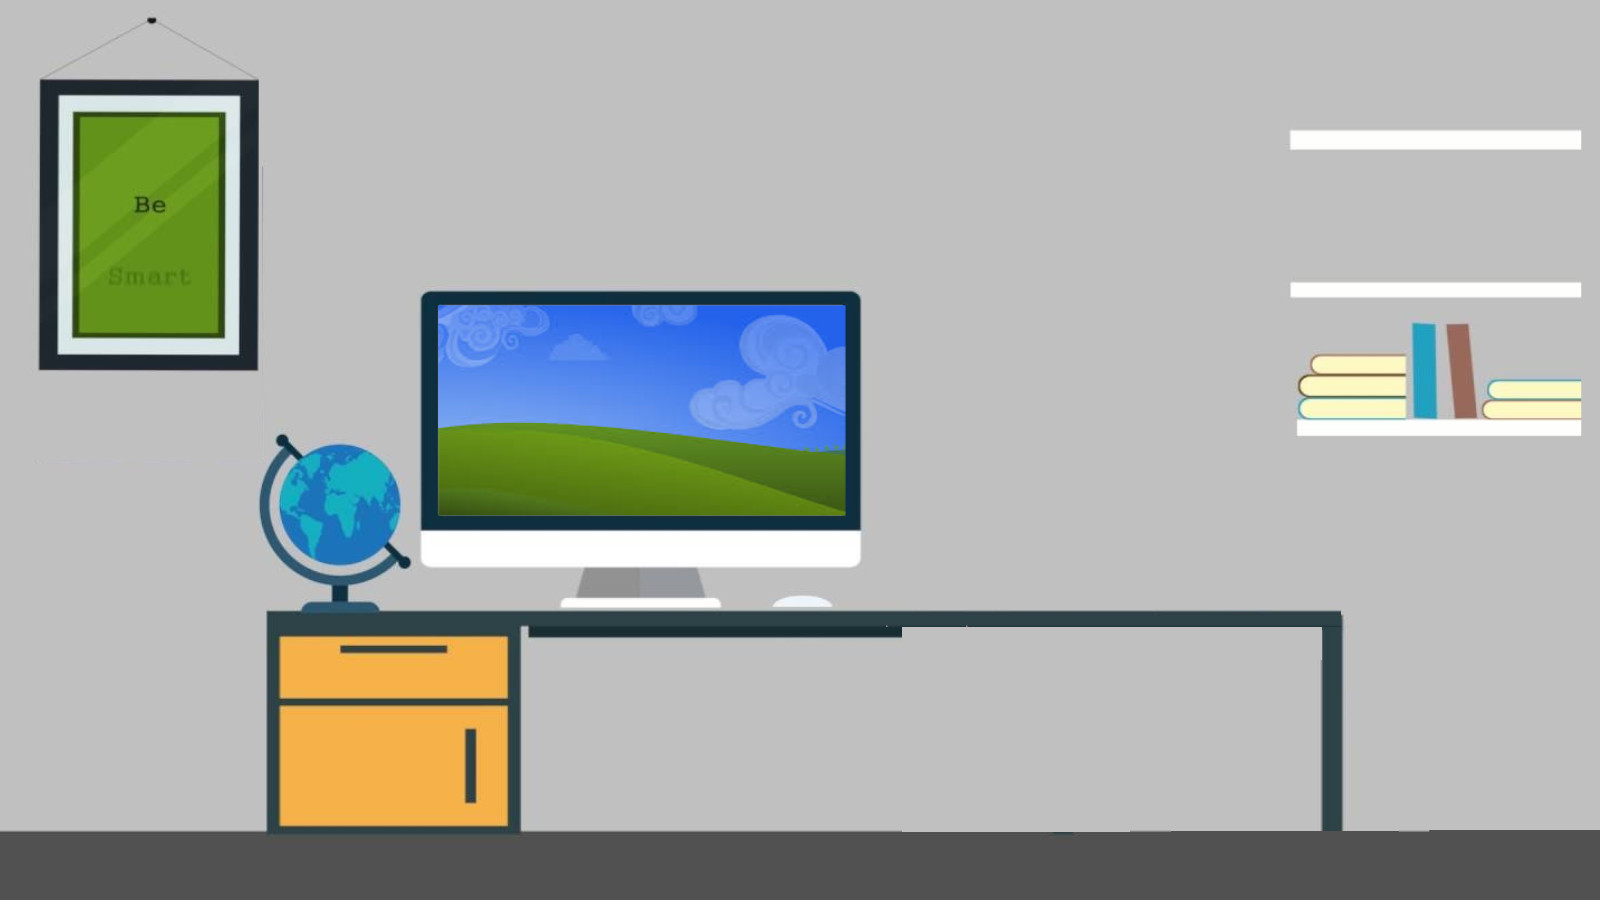
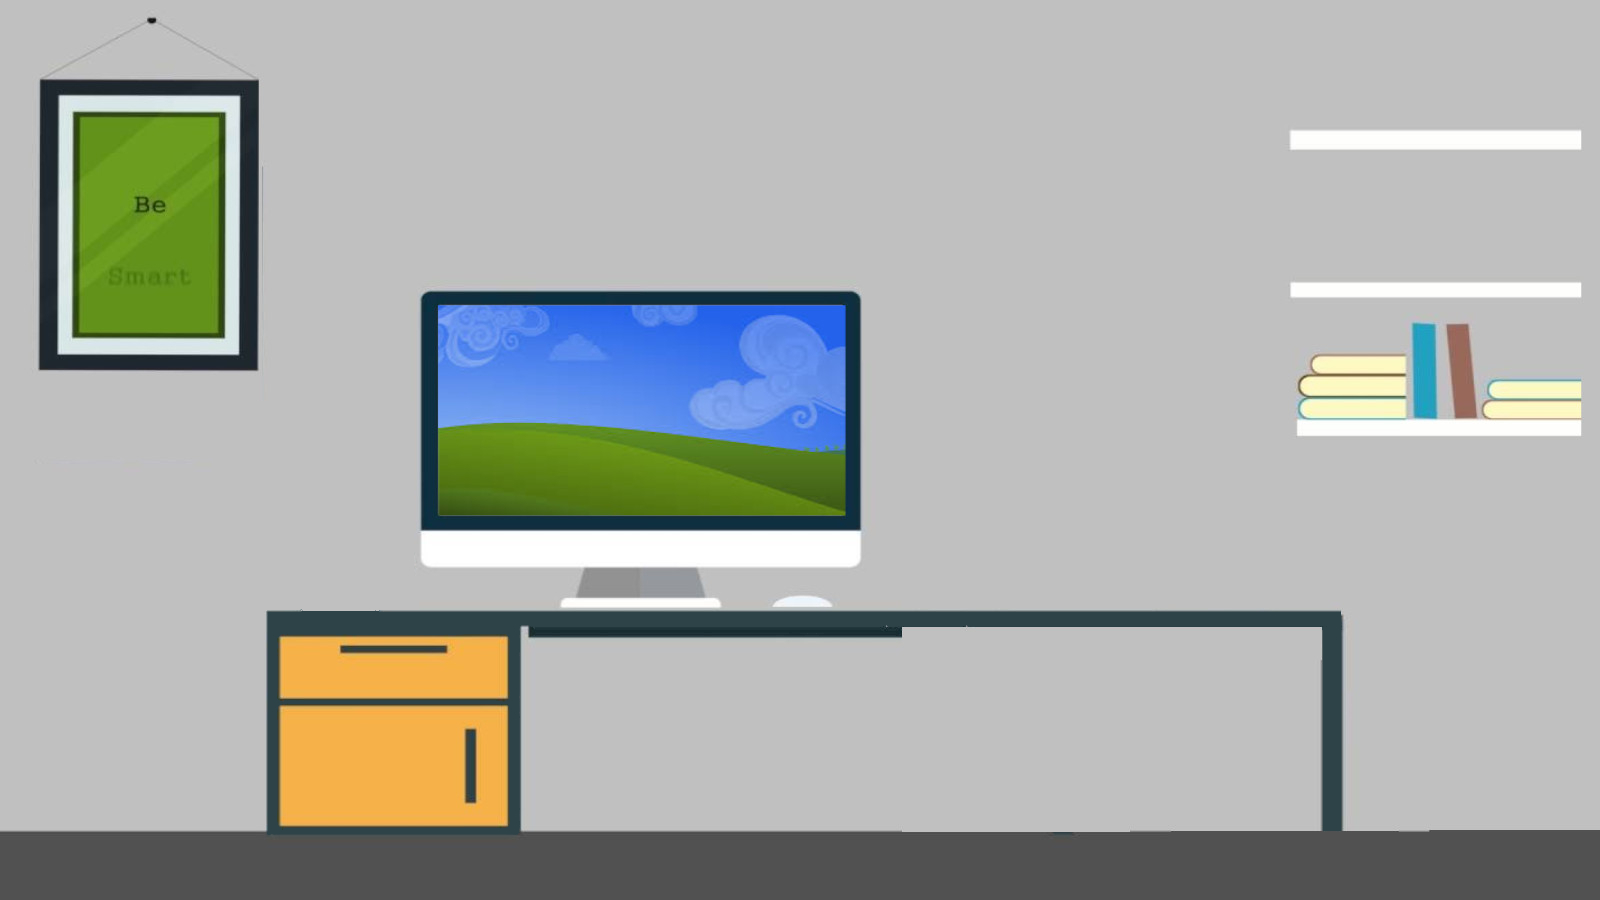
Added globe decoration

Changed region(s): [[0.1562, 0.4667, 0.25, 0.6844]]

diff --git a/src/com/github/Ukasz09/graphiceUserInterface/sprites/decorations/GlobeSprite.java b/src/com/github/Ukasz09/graphiceUserInterface/sprites/decorations/GlobeSprite.java
@@ -1,25 +1,24 @@
-package com.github.Ukasz09.graphiceUserInterface.sprites.printerParts;
+package com.github.Ukasz09.graphiceUserInterface.sprites.decorations;
 
 import com.github.Ukasz09.graphiceUserInterface.sprites.ImageSheetProperty;
 import com.github.Ukasz09.graphiceUserInterface.sprites.PartDrawing;
 import com.github.Ukasz09.graphiceUserInterface.sprites.Sprite;
 import com.github.Ukasz09.graphiceUserInterface.sprites.SpritesProperites;
-import com.github.Ukasz09.graphiceUserInterface.sprites.states.PrinterState;
+import com.github.Ukasz09.graphiceUserInterface.sprites.states.DecorationState;
 
-public class PrinterBodySprite extends Sprite implements PartDrawing {
+public class GlobeSprite extends Sprite implements PartDrawing {
     ////////////////////////////////////////////////////////////////////////////////////////////////////////////////////
     //                                                  Fields
     ////////////////////////////////////////////////////////////////////////////////////////////////////////////////////
-    private final static ImageSheetProperty DEFAULT_IMAGE_PROPERTY = SpritesProperites.printerSheetProperty();
-    private final static double DEFAULT_WIDTH = 320;
-    private final static double DEFAULT_HEIGHT = 320;
-
+    private final static ImageSheetProperty DEFAULT_IMAGE_PROPERTY = SpritesProperites.globeSheetProperty();
+    private final static double DEFAULT_WIDTH = 192;
+    private final static double DEFAULT_HEIGHT = 192;
 
     ////////////////////////////////////////////////////////////////////////////////////////////////////////////////////
     //                                               Constructors
     ////////////////////////////////////////////////////////////////////////////////////////////////////////////////////
-    public PrinterBodySprite() {
-        super(DEFAULT_IMAGE_PROPERTY, DEFAULT_WIDTH, DEFAULT_HEIGHT, DEFAULT_IMAGE_PROPERTY.getAction(PrinterState.STANDBY));
+    public GlobeSprite() {
+        super(DEFAULT_IMAGE_PROPERTY, DEFAULT_WIDTH, DEFAULT_HEIGHT, DEFAULT_IMAGE_PROPERTY.getAction(DecorationState.STANDBY));
         setPosition(getDefaultPositionX(),getDefaultPositionY());
     }
 
@@ -28,10 +27,10 @@ public class PrinterBodySprite extends Sprite implements PartDrawing {
     ////////////////////////////////////////////////////////////////////////////////////////////////////////////////////
     //TODO: tmp: potem dac osobno przedmioty do background i ustalac pozycje na podstawie przedmiotow
     private double getDefaultPositionX() {
-        return (getManager().getRightFrameBorder() -getManager().getRightFrameBorder()/ 2.5);
+        return (getManager().getLeftFrameBorder() +getManager().getRightFrameBorder()/6.8);
     }
 
     private double getDefaultPositionY() {
-        return (getManager().getBottomFrameBorder() - getManager().getBottomFrameBorder()/1.7);
+        return (getManager().getBottomFrameBorder() - getManager().getBottomFrameBorder()/1.88);
     }
 }

diff --git a/src/com/github/Ukasz09/applicationLogic/ApplicationMain.java b/src/com/github/Ukasz09/applicationLogic/ApplicationMain.java
@@ -4,7 +4,8 @@ import com.github.Ukasz09.applicationLogic.printer.Printer;
 import com.github.Ukasz09.graphiceUserInterface.ViewManager;
 import com.github.Ukasz09.graphiceUserInterface.backgrounds.Background;
 import com.github.Ukasz09.graphiceUserInterface.backgrounds.RoomBackground;
-import com.github.Ukasz09.graphiceUserInterface.sprites.printerParts.PartDrawing;
+import com.github.Ukasz09.graphiceUserInterface.sprites.PartDrawing;
+import com.github.Ukasz09.graphiceUserInterface.sprites.decorations.GlobeSprite;
 import com.github.Ukasz09.graphiceUserInterface.sprites.printerParts.PrinterBodySprite;
 import javafx.animation.AnimationTimer;
 import javafx.application.Application;
@@ -16,7 +17,7 @@ import java.util.List;
 public class ApplicationMain extends Application {
     private final static String applicationTitle = "Printer Game Application";
 
-    private final boolean fullScreen=true;
+    private final boolean fullScreen = true;
 
     private ViewManager manager;
     private double elapsedTime;
@@ -33,7 +34,7 @@ public class ApplicationMain extends Application {
         lastNanoTime = System.nanoTime();
         itemsList = new ArrayList<>();
         addStartedItems();
-        printer=new Printer();
+        printer = new Printer();
     }
 
     @Override
@@ -59,7 +60,16 @@ public class ApplicationMain extends Application {
     }
 
     private void addStartedItems() {
+        addMachines();
+        addDecorations();
+    }
+
+    private void addMachines() {
         itemsList.add(new PrinterBodySprite());
+    }
+
+    private void addDecorations() {
+        itemsList.add(new GlobeSprite());
     }
 
     private void updateApplication() {

diff --git a/src/com/github/Ukasz09/graphiceUserInterface/sprites/SpritesProperites.java b/src/com/github/Ukasz09/graphiceUserInterface/sprites/SpritesProperites.java
@@ -1,5 +1,7 @@
 package com.github.Ukasz09.graphiceUserInterface.sprites;
 
+import com.github.Ukasz09.graphiceUserInterface.sprites.decorations.GlobeSprite;
+import com.github.Ukasz09.graphiceUserInterface.sprites.states.DecorationState;
 import com.github.Ukasz09.graphiceUserInterface.sprites.states.PrinterState;
 
 public class SpritesProperites {
@@ -8,10 +10,22 @@ public class SpritesProperites {
         ImageSheetProperty sheetProperty = ImageSheetProperty.bulider()
                 .withImagePath(spritePath)
                 .withSizeOfOneFrame(256, 256)
-                .withDefaultDurationPerOneFrame(10)
+                .withDefaultDurationPerOneFrame(20)
                 .withAddActionState(PrinterState.STANDBY, 0, 2)
                 .build();
         return sheetProperty;
     }
+
+    public static ImageSheetProperty globeSheetProperty() {
+        String spritePath = "\\resources\\sprites\\decorations\\globe.png";
+        ImageSheetProperty sheetProperty = ImageSheetProperty.bulider()
+                .withImagePath(spritePath)
+                .withSizeOfOneFrame(256, 256)
+                .withDefaultDurationPerOneFrame(5)
+                .withAddActionState(DecorationState.STANDBY, 0, 21)
+                .build();
+        return sheetProperty;
+    }
+
 
 }

diff --git a/src/com/github/Ukasz09/applicationLogic/printer/Printer.java b/src/com/github/Ukasz09/applicationLogic/printer/Printer.java
@@ -5,7 +5,7 @@ import com.github.Ukasz09.applicationLogic.printer.colorInks.ColorInk;
 import com.github.Ukasz09.applicationLogic.printer.paper.PrinterPaper;
 import com.github.Ukasz09.applicationLogic.printer.printOption.GrayPrint;
 import com.github.Ukasz09.applicationLogic.printer.printOption.PrintOption;
-import com.github.Ukasz09.graphiceUserInterface.sprites.printerParts.PartDrawing;
+import com.github.Ukasz09.graphiceUserInterface.sprites.PartDrawing;
 import com.github.Ukasz09.graphiceUserInterface.sprites.printerParts.PrinterBodySprite;
 import javafx.scene.image.Image;
 

diff --git a/src/com/github/Ukasz09/applicationLogic/printer/colorInks/ColorInk.java b/src/com/github/Ukasz09/applicationLogic/printer/colorInks/ColorInk.java
@@ -1,7 +1,7 @@
 package com.github.Ukasz09.applicationLogic.printer.colorInks;
 
 
-import com.github.Ukasz09.graphiceUserInterface.sprites.printerParts.PartDrawing;
+import com.github.Ukasz09.graphiceUserInterface.sprites.PartDrawing;
 
 public class ColorInk {
     ////////////////////////////////////////////////////////////////////////////////////////////////////////////////////

diff --git a/src/com/github/Ukasz09/applicationLogic/printer/paper/PrinterPaper.java b/src/com/github/Ukasz09/applicationLogic/printer/paper/PrinterPaper.java
@@ -1,6 +1,6 @@
 package com.github.Ukasz09.applicationLogic.printer.paper;
 
-import com.github.Ukasz09.graphiceUserInterface.sprites.printerParts.PartDrawing;
+import com.github.Ukasz09.graphiceUserInterface.sprites.PartDrawing;
 import javafx.scene.image.Image;
 
 public class PrinterPaper {

diff --git a/src/com/github/Ukasz09/graphiceUserInterface/sprites/printerParts/PrinterPaperSprite.java b/src/com/github/Ukasz09/graphiceUserInterface/sprites/printerParts/PrinterPaperSprite.java
@@ -1,5 +1,7 @@
 package com.github.Ukasz09.graphiceUserInterface.sprites.printerParts;
 
+import com.github.Ukasz09.graphiceUserInterface.sprites.PartDrawing;
+
 public class PrinterPaperSprite implements PartDrawing {
     //todo: dac extend Sprite
     @Override

diff --git a/src/com/github/Ukasz09/graphiceUserInterface/sprites/Sprite.java b/src/com/github/Ukasz09/graphiceUserInterface/sprites/Sprite.java
@@ -62,6 +62,7 @@ public abstract class Sprite {
             actualFramePositionX = 0;
             actualFramePositionY += spriteSheetProperties.getHeightOfOneFrame();
         }
+
     }
 
     public void update() {

diff --git a/src/com/github/Ukasz09/graphiceUserInterface/sprites/PartDrawing.java b/src/com/github/Ukasz09/graphiceUserInterface/sprites/PartDrawing.java
@@ -1,4 +1,4 @@
-package com.github.Ukasz09.graphiceUserInterface.sprites.printerParts;
+package com.github.Ukasz09.graphiceUserInterface.sprites;
 
 public interface PartDrawing {
     void render();

diff --git a/src/com/github/Ukasz09/graphiceUserInterface/sprites/states/DecorationState.java b/src/com/github/Ukasz09/graphiceUserInterface/sprites/states/DecorationState.java
@@ -1,0 +1,5 @@
+package com.github.Ukasz09.graphiceUserInterface.sprites.states;
+
+public enum DecorationState implements KindOfState {
+    STANDBY
+}
